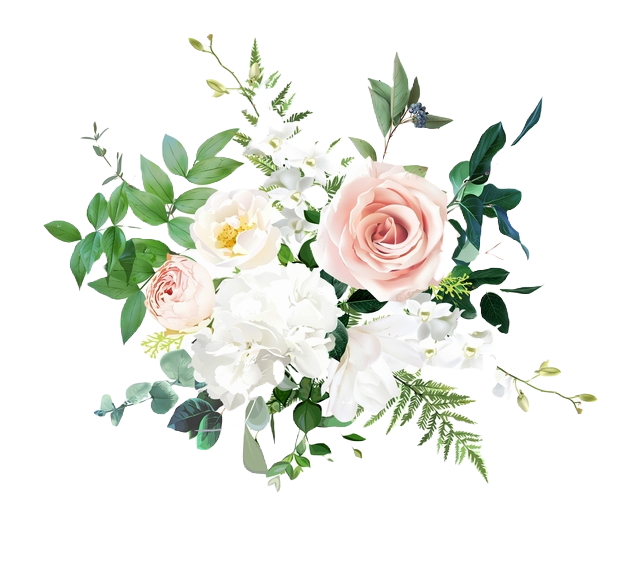
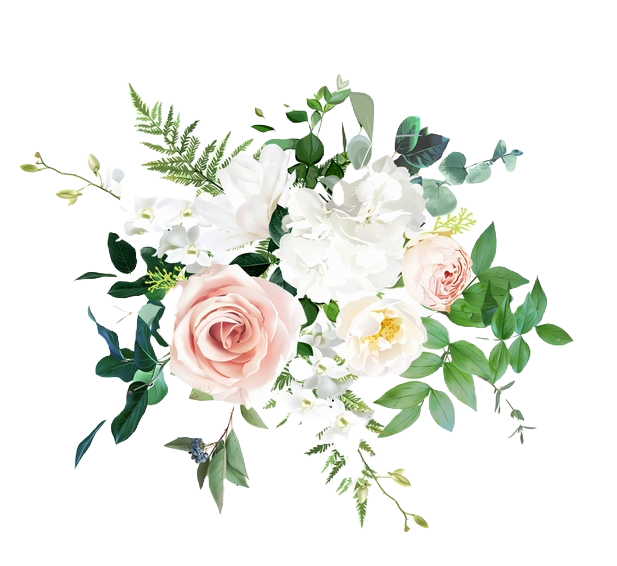
boda

diff --git a/style.css b/style.css
@@ -579,6 +579,13 @@ body {
     font-family: 'Playfair Display' ;
     font-size: 17px;
 }
+
+.flor-10{
+    width: 20%;
+    position: absolute;
+    left: 88%;
+    z-index: 1;
+}
 /* ============================== Confirmar asistencia ============================== */
 
 
@@ -790,6 +797,14 @@ body {
          width: 48%;
         margin-top: -67px;
         
+    }
+
+    .flor-10{
+        width: 61%;
+        position: absolute;
+        left: 20%;
+        z-index: -1;
+        margin-top: 93px;
     }
     
     .final{

diff --git a/index.html b/index.html
@@ -170,6 +170,7 @@
             <button>Confirmar asistencia</button>
             <input type="hidden" name="_next" value="http://127.0.0.1:5500/">
             <input type="hidden" name="_captcha" value="false">
+            <img class="flor-10" src="./img/flores10.png" alt="">
         </div>
     </form>
    
